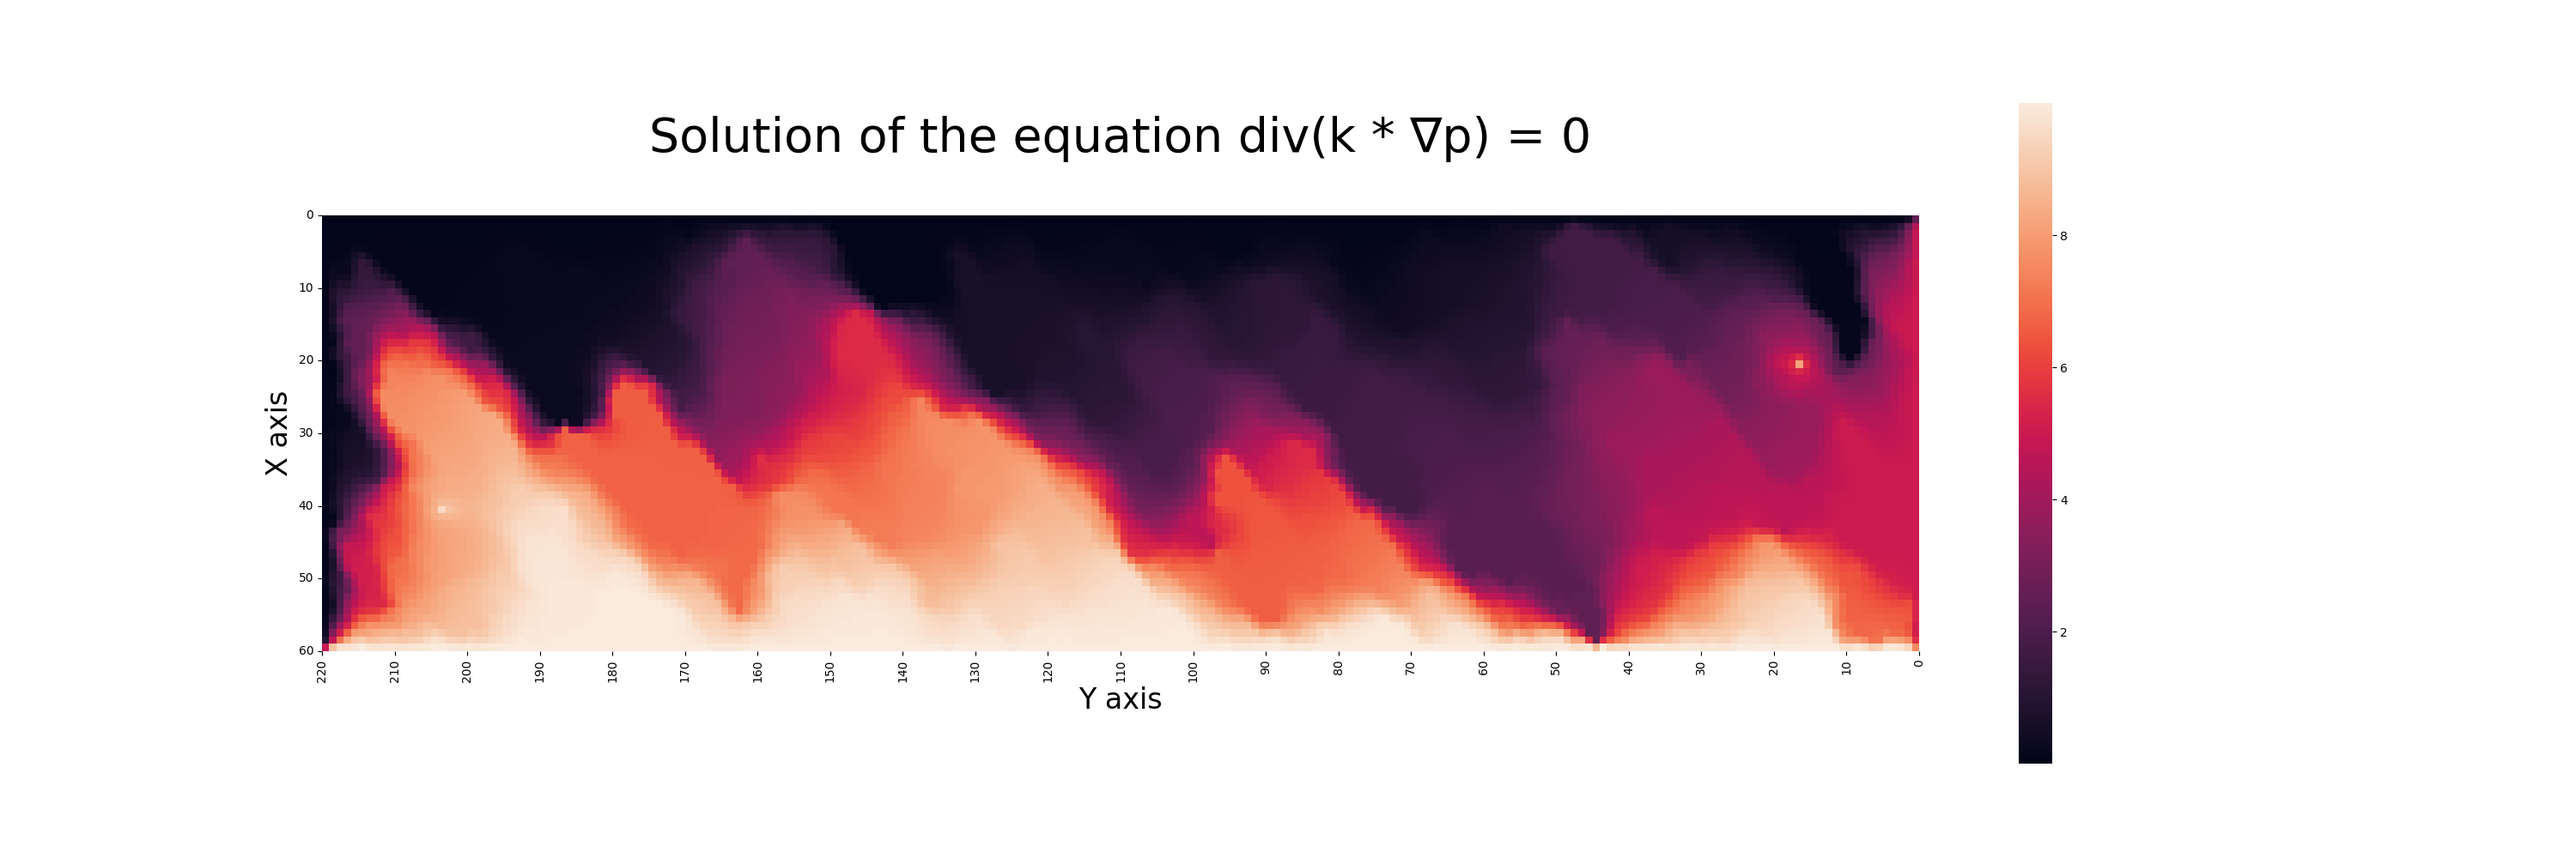
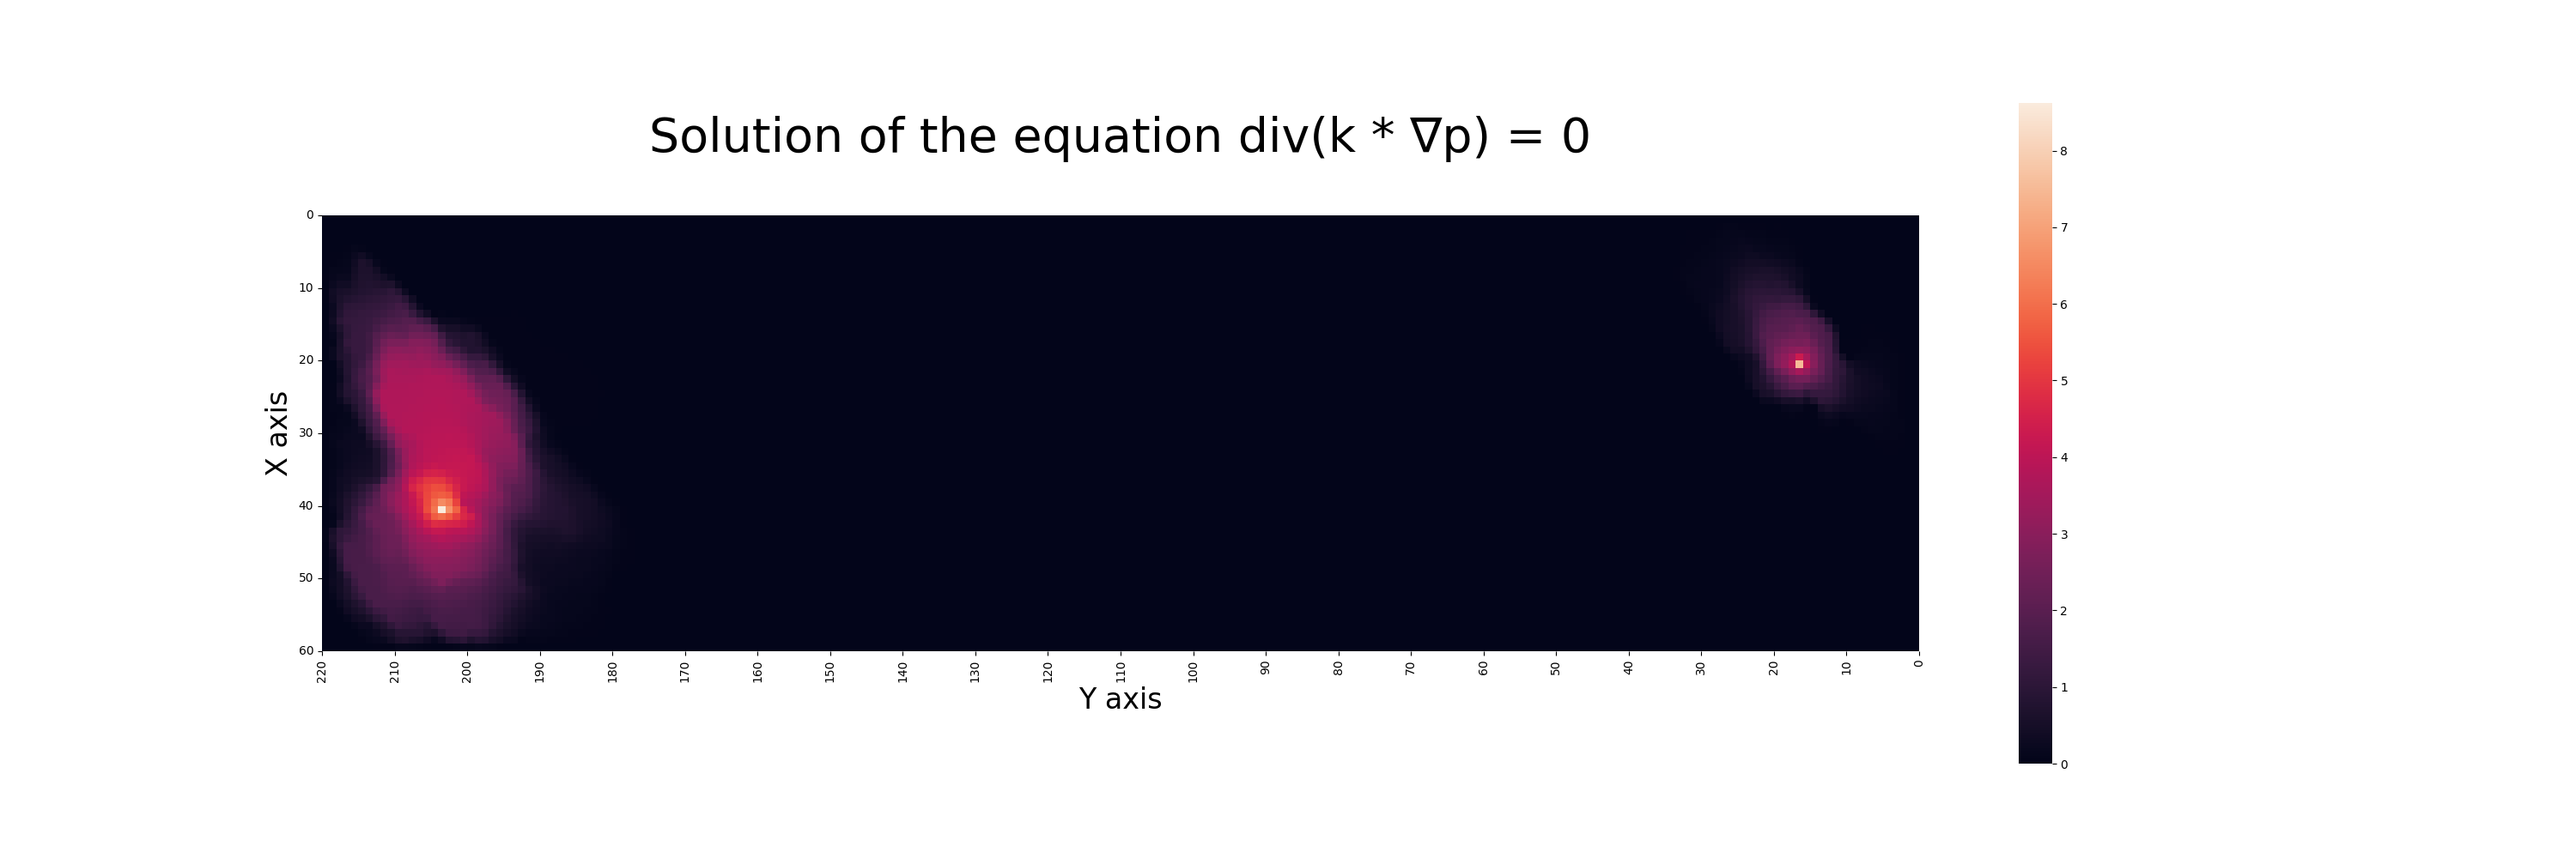
new algo description

Changed region(s): [[0.124, 0.248, 0.744, 0.775]]

diff --git a/utils/solver.h b/utils/solver.h
@@ -8,7 +8,7 @@
 #define ind(x, y, z) ((x)+(y)*Nx+(z)*Nx*Ny)
 
 
-/*
+/*-----------------------------------------------------------------------------
                     S   C   H   E   M   E
          *
          |
@@ -25,6 +25,34 @@
          *
 
 
+
+           |                   |                  |
+           |                   |                  |
+           |                   |                  |
+           |                   |                  |
+           |                   |                  |
+           |                   |                  |
+ MATRIX =  |-------------------|------------------|
+           |                   |                  |
+           |                   |                  |
+           |         A         |                  |
+           |                   |                  |
+           |                   |                  |
+
+
+
+ now on zero time layer all p = 0
+
+
+ ---------------------
+ func S(i,j, p[i], p[j])
+ if p[i]>p[j] return s[i]
+ else return s[j]
+ ----------------------
+ k(s[i]) = 1
+
+ ---------------------
+check = true
 for i = 0 : n * m
     i = 6
     [1]: 2 * Kx[i] * Kx[i+1] / ((hx^2) * (Kx[i] + Kx[i+1])) = Tau1
@@ -41,7 +69,30 @@ for i = 0 : n * m
     A[i, i - Nx] = Tau2
     A[i, i + Nx] = Tau4
     b = 0
+    -*------------------*---------------------*-----------------*-------------------
+    CALCULATING RESIDUAL:
+    r_0[i] = phi[i] * (s[i]-s_initial[i])/dt - (+) { Tau1*(p[i]-p[i+1])*S(i,i+1) + Tau2*(p[i]-p[i-nx])*S(i,i-nx)+
+        +(Tau3*(p[i]-p[i-1])*S(i,i-1)+(Tau4*(p[i]-p[i+nx])*S(i,i+nx) }
+    if i==well_index {r_0[i] -= k(s[i])*WI*(p_well - p[i]) }
 
+
+    r_w[i] =  phi[i] * (-s[i]+s_initial[i])/dt - (+) { Tau1*(p[i]-p[i+1])*(1-S(i,i+1)) + Tau2*(p[i]-p[i-nx])*(1-S(i,i-nx))+
+        +(Tau3*(p[i]-p[i-1])*(1-S(i,i-1))+(Tau4*(p[i]-p[i+nx])*(1-S(i,i+nx)) }
+    if i==well_index {r_0[i] -= k(s[i])*WI*(p_well - p[i]) }
+
+    if (abs(r_o[i])+abs(r_w[i]))>eps{
+        check = false;
+    }
+    ---------------------------------------------------------------------
+    MAKING J-MATRIX
+
+
+
+
+
+
+
+ ------------------------------------------------------------------------
     if i < Nx:
         [2]: b = -2Ky[i] / (hy**2) * (dirichlet_up)
             A[i,i] += 2Ky[i] / (hy**2)
@@ -49,6 +100,13 @@ for i = 0 : n * m
             A[i,i] += 2Kx[i] / (hx**2)
 
                     S   C   H   E   M   E
+--------------------------------------------------------------------------
+
+
+
+
+
+
 */
 
 
@@ -86,8 +144,8 @@ COO get_SLAE(
 
         // Upper boundary
         if (i < Nx){
-             b[i] += -2 * ky[i] / (hy * hy) * Neumann_up;
-//            b[i] += Neumann_up * ky[i];
+//             b[i] += -2 * ky[i] / (hy * hy) * Neumann_up;
+            b[i] += Neumann_up * ky[i];
             Tau2 = 2 * ky[i] / (hy * hy);
         }
         else {
@@ -97,8 +155,8 @@ COO get_SLAE(
 
         // Left boundary
         if (i % Nx == 0){
-             b[i] += -2 * kx[i] / (hx * hx) * (Neumann_left);
-//            b[i] += Neumann_left * kx[i];
+//             b[i] += -2 * kx[i] / (hx * hx) * (Neumann_left);
+            b[i] += Neumann_left * kx[i];
             Tau3 = 2 * kx[i] / (hx * hx);
         }
         else {
@@ -108,8 +166,8 @@ COO get_SLAE(
 
         // Right boundary
         if ((i + 1) % Nx == 0){
-             b[i] += -2 * kx[i] / (hx * hx) * (Neumann_right);
-//            b[i] += Neumann_right * kx[i];
+//             b[i] += -2 * kx[i] / (hx * hx) * (Neumann_right);
+            b[i] += Neumann_right * kx[i];
             Tau1 = 2 * kx[i] / (hx * hx);
         }
         else {
@@ -119,8 +177,8 @@ COO get_SLAE(
 
         // Bottom boundary
         if (i >= (Ny - 1) * Nx){
-             b[i] += -2 * ky[i] / (hy * hy) * Neumann_down;
-//            b[i] += Neumann_down * ky[i];
+//             b[i] += -2 * ky[i] / (hy * hy) * Neumann_down;
+            b[i] += Neumann_down * ky[i];
             Tau4 = 2 * ky[i] / (hy * hy);
         }
         else {

diff --git a/utils/constants.h b/utils/constants.h
@@ -25,5 +25,5 @@
 
 #define Neumann_up (0)
 #define Neumann_left (0)
-#define Neumann_right (10)
-#define Neumann_down (5)
+#define Neumann_right (0)
+#define Neumann_down (0)
